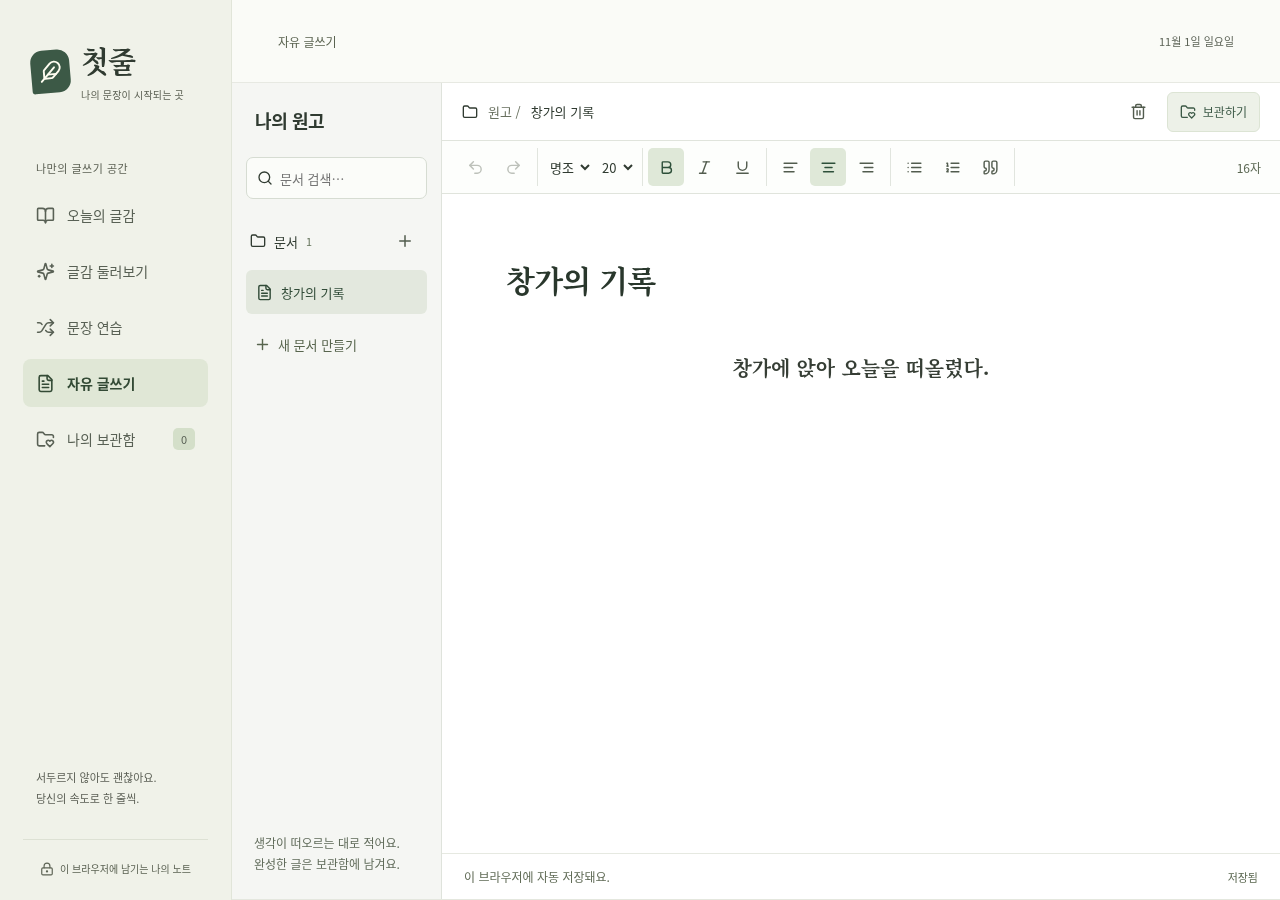
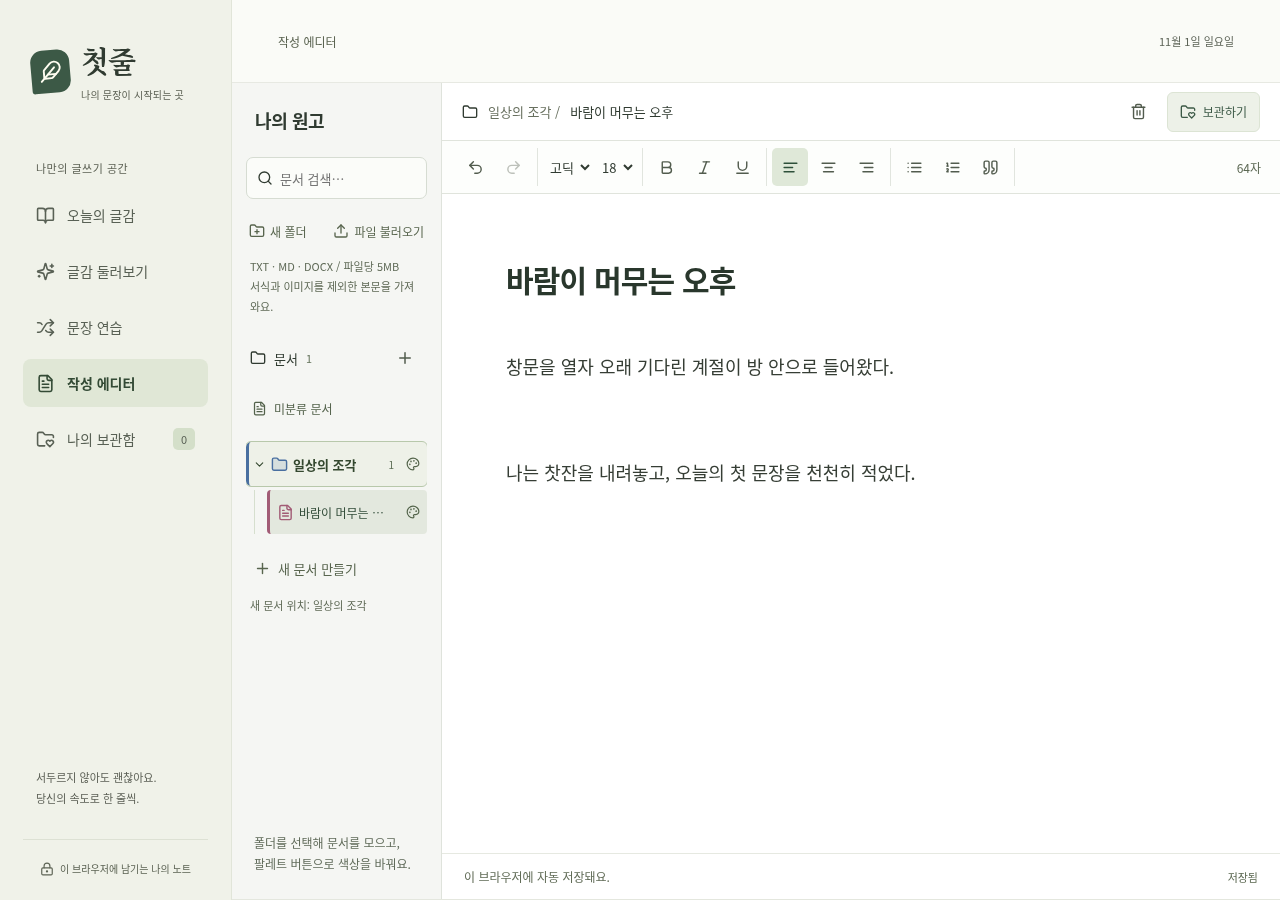
docs: explain Firstline motivation, evolution and development workflow

diff --git a/PRD.md b/PRD.md
@@ -1,6 +1,6 @@
 # 첫줄 — 초보자를 위한 글쓰기 플랫폼 PRD
 
-> 버전: 1.1 · 작성일: 2026-11-01 · 범위: 첫 버전 및 사용자 요청 확장
+> 버전: 1.2 · 작성일: 2026-11-01 · 갱신일: 2026-11-02 · 범위: 첫 버전 및 사용자 요청 확장
 > ‘첫줄’은 가칭입니다. 사용자 확정 사항과 구현을 위한 제안을 구분했습니다.
 > 이 문서는 제품 요구 사항입니다. 2026-11-01 사용자의 첫 버전 제작 요청으로 구현했으며, 결과는 TodoList.md와 docs/VALIDATION.md에 기록합니다.
 
@@ -53,7 +53,7 @@
 
 ### 4-1. 글감 제공
 
-- 사용자는 오늘의 글감 1개와 짧은 시작 질문을 볼 수 있다.
+- 사용자는 오늘의 글감 1개와 짧은 시작 질문을 볼 수 있다. 후속 화면 요청(#11, #12)에 따라 홈에는 고정된 제목·설명을 표시하고, 실제 글감·질문은 작성 화면에서 보여준다.
 - 다른 글감을 선택할 수 있다. 사용자별 추천이나 외부 검색은 사용하지 않는다.
 - 제안 콘텐츠: 자체 작성 글감 최소 20개, ‘관찰·기억·상상·감정’ 분류.
 - 오늘의 글감은 기기의 현지 날짜를 기준으로 같은 날 같은 항목을 표시한다.
@@ -87,7 +87,7 @@
 - 상세 화면에서 ‘처음 쓴 글’과 ‘다듬은 글’을 구분해 볼 수 있다.
 - 모바일은 세로 배치, 넓은 화면은 나란히 배치를 제안한다.
 - 미션과 선택 입력인 ‘바꾼 이유’ 한 줄을 함께 저장한다.
-- 저장한 글은 다시 읽기 전용으로 제공한다. 재퇴고·다중 버전 관리는 이번 범위에서 제외한다.
+- 저장한 글은 다시 읽을 수 있고, 후속 요청(#12)에 따라 보관함에서 제목·본문·수정본·메모를 수정할 수 있다. 다중 버전 관리는 제외한다.
 - 글별 삭제는 확인 후 실행한다. 취소 시 그대로 남는다.
 - 빈 보관함에는 첫 글쓰기로 이동하는 안내를 표시한다.
 
@@ -108,8 +108,8 @@
 3. AI 글 생성·자동 첨삭·문장력 점수·순위.
 4. 세계관·캐릭터·플롯 설정 도구. 사용자 요청으로 추가한 문서 목록과 자유 글쓰기 편집기는 #11에 정의한다.
 5. 결제·구독·광고·푸시 알림·연속 출석 보상.
-6. 출판·PDF 내보내기·데이터 백업 및 가져오기.
-7. 기존 보관 글의 재편집·여러 차례의 수정 이력·정교한 단어별 차이 표시.
+6. 출판·PDF 내보내기·데이터 백업 복원. 문서 파일의 본문 불러오기는 #12에 정의한다.
+7. 여러 차례의 수정 이력·정교한 단어별 차이 표시. 보관 글의 재편집은 #12에 정의한다.
 
 ## 6. 모양과 분위기 (디자인)
 
@@ -209,18 +209,29 @@
 - 자체 단어 목록에서 무작위로 한 단어를 제시한다. 교체 시 같은 단어가 연속해서 나오지 않는다.
 - 한 문장부터 자유롭게 쓸 수 있으며 공백만 보관하는 것은 막는다. 채점이나 단어 포함 강제는 하지 않는다.
 - 작성 중 단어 교체는 확인 후 문장을 유지한 채 단어만 바꾼다.
-- 단어·문장을 자동 저장·복원한다. 보관 성공 후에만 초안을 비우며, 단어와 문장을 ‘나의 보관함’에 읽기 전용으로 저장한다.
+- 단어·문장을 자동 저장·복원한다. 보관 성공 후에만 초안을 비우며, 단어와 문장을 ‘나의 보관함’에 저장한다. 이후 수정은 #12를 따른다.
 
-### 자유 글쓰기 편집기
+### 작성 에디터 (이전 이름: 자유 글쓰기)
 
 - 첨부한 글쓰기 앱 화면을 참고해 문서 목록, 제목, 서식 도구, 넓은 본문을 제공한다.
 - 문서 추가·검색·전환·삭제 확인과 제목·본문 자동 저장·복원을 지원한다.
 - 글꼴·글자 크기, 굵게·기울임·밑줄, 정렬, 목록·인용문, 실행 취소·다시 실행, 글자 수를 제공한다. 저장된 원고는 다시 편집할 수 있다.
-- 완성한 원고의 보관은 확인 후 실행하며, 본문을 읽기 전용으로 보관하고 작성 중 목록에서 제거한다. 보관 시 서식 제외 여부를 미리 안내한다.
+- 완성한 원고의 보관은 확인 후 실행하며, 본문을 보관하고 작성 중 목록에서 제거한다. 보관 시 서식 제외 여부를 미리 안내하며, 보관함에서도 본문을 수정할 수 있다.
 - 문서 목록은 1100px 이하에서 접고 버튼으로 여닫는다. 700px 이하에서는 도구가 줄바꿈되어 가로 넘침 없이 터치 조작할 수 있다.
 
 ### 저장과 범위
 
 - 기존 `firstline.notebook.v1` 데이터를 그대로 유지한다. 새 기능은 별도 `firstline.studio.v1` 저장 구조를 사용하고 보관 목록만 합쳐 표시한다.
 - 새 저장 구조에도 저장 실패·다른 탭 충돌·손상 데이터 보호를 적용한다. 사용자 입력을 외부로 보내지 않는다.
-- 서버 저장, 동기화, AI 첨삭, 캐릭터·플롯 관리, 업로드·삽입 도구는 이번 요청에 추가하지 않는다.
+- 서버 저장, 동기화, AI 첨삭, 캐릭터·플롯 관리, 이미지 삽입 도구는 추가하지 않는다. 로컬 파일 불러오기는 #12를 따른다.
+
+## 12. 폴더·파일·보관함 편집 (2026-11-01 후속 요청)
+
+- 홈 글감 카드의 제목은 ‘작성의 순간’으로 표시한다. ‘다른 글감’은 글감 목록을 열어 선택하게 한다. 기존 ‘자유 글쓰기’ 메뉴와 화면 이름은 ‘작성 에디터’로 바꾼다.
+- 작성 에디터에 폴더 생성, 이름 변경, 문서 이동, 폴더 접기·펼치기를 제공한다. 폴더 삭제 시 내부 문서는 미분류로 이동하며 지우지 않는다.
+- 폴더와 문서마다 6가지 표시 색상 중 하나를 지정할 수 있다. 색상과 함께 서로 다른 아이콘·들여쓰기로 구분한다. 소속 폴더와 색상은 새로고침 후 복원한다.
+- TXT·Markdown·Word(DOCX) 파일을 선택해 새 문서로 불러온다. 파일은 브라우저에서 읽으며 서버로 전송하지 않는다. 원래 파일은 변경하지 않는다.
+- 불러오기는 파일당 5MB, 본문 20만 자까지 지원한다. 서식·이미지는 제외하고 텍스트와 문단을 가져오며 Markdown 구문은 본문 그대로 둔다. 지원하지 않거나 읽을 수 없는 파일은 안내하고 기존 문서를 유지한다.
+- 비동기 파일 읽기 중 편집한 기존 문서도 유지한다. 저장 실패 시 읽은 문서를 재시도할 수 있고, 성공하기 전에는 완료로 표시하지 않는다.
+- 보관함의 글을 열고 ‘글 수정’으로 제목과 본문을 수정한다. 퇴고 글은 원문·수정본·메모를 함께 수정할 수 있다. 저장하면 같은 ID에 반영하고 수정 시각을 기록하며, 원문·수정본의 실제 내용으로 변화 상태를 다시 계산한다.
+- 편집 취소는 저장된 글을 바꾸지 않는다. 저장 실패는 입력을 유지하고 재시도를 허용한다. 기존 원고·보관 데이터는 삭제하지 않고 추가 필드의 기본값을 적용해 읽는다.

diff --git a/TodoList.md b/TodoList.md
@@ -1,7 +1,7 @@
 # 첫줄 — TodoList
 
-> 기준 문서: [PRD.md](PRD.md) · 버전: 1.1 · 작성일: 2026-11-01
-> 현재 상태: 첫 버전과 사용자 요청 확장 구현·검증 완료. 단위 테스트 12개·브라우저 테스트 48개·프로덕션 빌드 통과. Sites 기록은 docs/SITES.md를 참고하며, 실제 사용자 검증은 별도입니다.
+> 기준 문서: [PRD.md](PRD.md) · 버전: 1.2 · 작성일: 2026-11-01 · 갱신일: 2026-11-02
+> 현재 상태: 첫 버전과 사용자 요청 확장 구현·검증 완료. 단위 테스트 16개·브라우저 테스트 66개(전체 실행과 영향 범위 재검증 합산)·프로덕션 빌드 통과. Sites 기록은 docs/SITES.md를 참고하며, 실제 사용자 검증은 별도입니다.
 > 각 항목은 PRD 근거를 포함합니다. 열린 질문은 PRD #9의 제안 기본값으로 계획했으며, 완료 날짜는 확정하지 않았습니다.
 > 구현 승인 후 순서대로 진행하고 완료 번호·확인 결과·남은 문제를 보고합니다.
 
@@ -62,7 +62,7 @@
 - [x] **4-4** 글 ID 기준으로 중복 보관을 방지한다. (PRD #4-5)
 - [x] **4-5** 보관 완료된 진행 중 초안을 비운다. (PRD #4-5)
 - [x] **4-6** 보관함 목록을 실제 데이터로 연결한다. (PRD #4-4)
-- [x] **4-7** 상세의 읽기 전용 전후 비교를 연결한다. (PRD #4-4)
+- [x] **4-7** 상세의 전후 비교를 연결한다. 초기 읽기 전용 제한은 후속 8-5에서 수정 기능으로 확장했다. (PRD #4-4, #12)
 - [x] **4-8** 보관함 빈 상태를 구현한다. (PRD #4-4)
 - [x] **4-9** 글별 삭제 확인과 취소를 구현한다. (PRD #4-4)
 - [x] **4-10** 저장 실패 시 입력 유지와 재시도 안내를 구현한다. (PRD #4-5)
@@ -108,15 +108,28 @@
 - [x] **7-6** 문장과 원고의 보관 실패 시 입력 유지 및 재시도, 손상 데이터 보호를 검증한다.
 - [x] **7-7** 360px·1280px 기능·접근성 검사와 841px 원고 목록 열기·닫기 및 화면을 확인한다.
 
+## 폴더·파일·보관함 편집과 문서 갱신 (PRD #12)
+
+- [x] **8-1** 홈 카드 제목을 ‘작성의 순간’으로, ‘자유 글쓰기’를 ‘작성 에디터’로 변경한다. 다른 글감 버튼은 글감 목록으로 연결한다.
+- [x] **8-2** 폴더 생성·이름 변경·접기·펼치기와 문서 이동을 구현한다. 폴더 삭제 시 문서는 미분류로 이동한다.
+- [x] **8-3** 폴더와 문서에 6가지 표시 색상을 제공하고 아이콘·들여쓰기로도 구분한다. 기존 데이터에 기본값을 적용하고 소속·색상을 복원한다.
+- [x] **8-4** TXT·Markdown·DOCX 본문 불러오기, 형식·크기·빈 본문 안내, 저장 실패 재시도를 제공한다. 파일을 읽는 동안의 기존 문서 편집을 보존한다.
+- [x] **8-5** 보관한 글감 글·연습 문장·원고의 제목·본문을 같은 ID로 수정한다. 퇴고 글의 수정본·메모, 수정 시각과 상태 재계산을 연결한다.
+- [x] **8-6** 보관 글 편집 취소·실패 시 데이터와 입력 보존, 이전 저장 형식 호환, 중복 방지를 검증한다.
+- [x] **8-7** 360px·1280px에서 폴더·파일·보관함 편집 동작, 새 창과 설정의 접근성 및 화면을 확인한다.
+- [x] **8-8** README에 소개·제작 동기, 초기 PRD·TodoList 대비 변경점, SKILL.md의 내용·이유·적용 사례, 회고와 결론을 추가한다. 관련 문서의 제외 범위와 검증 기록을 함께 갱신한다.
+
+**확인 방법:** 폴더 생성→색상 선택→문서 이동→새로고침→폴더 삭제 후 문서 보존을 확인한다. 세 파일 형식과 실패 재시도를 검사한다. 세 종류의 보관 글을 수정하고 취소·저장 실패·새로고침 후 같은 ID와 내용을 대조한다. 초기 문서와 현재 코드에 근거해 README의 비교 내용을 점검한다.
+
 ## 하지 않기로 한 것
 
 - **제외-1** 회원가입·로그인·서버 저장·기기 간 동기화. (PRD #5-1)
 - **제외-2** 공개 게시·팔로우·댓글·작품 교환. (PRD #5-2)
 - **제외-3** AI 생성·자동 첨삭·문장력 점수·순위. (PRD #5-3)
-- **제외-4** 세계관·캐릭터·플롯 관리. 자유 글쓰기와 문서 관리는 사용자 추가 요청(PRD #11)에 포함한다.
+- **제외-4** 세계관·캐릭터·플롯 관리. 작성 에디터와 문서·폴더 관리는 사용자 추가 요청(PRD #11, #12)에 포함한다.
 - **제외-5** 결제·구독·광고·푸시·출석 보상. (PRD #5-5)
-- **제외-6** 출판·PDF 출력·백업·가져오기. (PRD #5-6)
-- **제외-7** 보관 글 재편집·다중 수정 이력·단어별 차이 표시. (PRD #5-7)
+- **제외-6** 출판·PDF 출력·백업 복원. TXT·Markdown·DOCX 본문 불러오기는 추가 요청(PRD #12)에 포함한다. (PRD #5-6)
+- **제외-7** 다중 수정 이력·단어별 차이 표시. 보관 글 재편집은 추가 요청(PRD #12)에 포함한다. (PRD #5-7)
 
 ## 추가 제안
 

diff --git a/docs/VALIDATION.md b/docs/VALIDATION.md
@@ -1,4 +1,22 @@
-# 첫줄 첫 버전 검증 기록
+# 첫줄 검증 기록
+
+## v1.2 · 폴더·파일·보관함 편집
+
+기능 검사: 2026-11-01. 문서·화면 검토 갱신: 2026-11-02 (Asia/Seoul). 프로덕션 빌드를 로컬 preview 서버에서 제공해 검사했다.
+
+- 단위 테스트 **16개 통과**: 기존 12개와 이전 데이터 호환·폴더 삭제·텍스트 가져오기·보관 글 수정 시각 검사 4개.
+- Chromium 브라우저 검사 **66개 검증 완료**: 33개 시나리오 × 1280×900 / 360×800. 첫 전체 실행은 63개 통과, 3개 실패였다. 변경된 기능과 맞지 않던 ‘읽기 전용’ 기대값 2개와 모바일 지연 로딩 대기 1개를 수정한 뒤, 영향 범위 20개(새 기능 18개와 기존 보관함 2개)를 재실행해 통과했다. 마지막 실행 기록은 `passed`, 실패 목록은 비어 있다.
+- TypeScript 검사와 Vite 프로덕션 빌드 성공. DOCX 추출 모듈은 파일을 불러올 때 로딩한다.
+- 홈 카드 ‘작성의 순간’, 메뉴·화면 ‘작성 에디터’ 표시와 ‘다른 글감’의 24개 목록 이동 확인.
+- 폴더 생성·문서 이동·색상·소속 복원, 폴더 안 새 문서 생성, 폴더 삭제 후 문서 2개 보존 확인.
+- TXT·Markdown·실제 DOCX 구조의 테스트 파일에서 한국어·문단 가져오기 확인. HTML 문자열은 문자로 표시하고 실행하지 않음. 미지원 형식·빈 파일 안내, 파일 읽기 중 편집 보존, 저장 실패 후 재시도 확인.
+- 글감 글·연습 문장·원고를 보관함에서 수정하고 새로고침 후 제목·본문·같은 ID 유지 확인. 퇴고 글의 수정본·메모·변화 상태 재계산, 취소·실패 시 기존 내용과 편집 입력 보존 확인.
+- 폴더 목록·설정 창·보관 글 편집 창의 Axe WCAG 2 A/AA·2.1 AA 자동 검사 위반 0건. 모바일 가로 넘침 없음.
+- 새 화면 캡처: [폴더·문서](images/folders-desktop.png), [모바일 폴더 목록](images/folders-mobile.png), [보관 글 편집](images/archive-edit-desktop.png), [모바일 편집 창](images/archive-edit-mobile.png). README의 소개·변경 비교·SKILL 설명·회고를 초기 문서와 현재 코드에 대조했다.
+
+자동 검사는 실제 사용자 조사나 모든 브라우저의 접근성 보장을 뜻하지 않는다. 운영 주소의 인증 후 조작, 실제 모바일 한글 키보드, Safari/Firefox, PDF·HWP 불러오기는 검증 범위에 포함하지 않았다.
+
+---
 
 ## v1.1 · 주석 수정과 글쓰기 확장
 
@@ -71,4 +89,4 @@
 - **Sites 연동:** 후속 요청으로 Sites를 연결했다. 프로덕션 빌드 대상 재검증과 배포 설정은 [Sites 기록](SITES.md)을 참고한다. 운영 주소의 인증 후 브라우저 조작은 별도 검증 범위다.
 - **사용성 검증:** PRD에서 제안한 초보자 3명 내외의 관찰·인터뷰 미수행. 문장력 향상 효과를 주장하지 않음.
 - **브라우저 범위:** Chromium 자동 검증 완료. 실제 iOS Safari·Firefox와 실제 모바일 기기 검증은 수행하지 않음.
-- 브라우저 저장만 사용하므로 데이터 삭제·도메인 변경·다른 기기 이동 시 글을 이어볼 수 없음. 백업·가져오기는 PRD 범위 밖.
+- 브라우저 저장만 사용하므로 데이터 삭제·도메인 변경·다른 기기 이동 시 글을 이어볼 수 없음. 초기에는 백업·가져오기가 모두 범위 밖이었으며, v1.2에서 문서 본문 불러오기만 추가했다. 전체 데이터 백업 복원은 여전히 제공하지 않는다.

diff --git a/docs/SITES.md b/docs/SITES.md
@@ -10,6 +10,10 @@
 
 첫 배포(버전 1)는 2026-11-01에 Sites의 `succeeded` 결과와 위 운영 URL을 확인했다. 소스 커밋은 `eb65bf189c10f97f598171331fe700950f6fba3a`다. 후속 화면·기능 확장의 검증은 [v1.1 기록](VALIDATION.md)을 참고한다.
 
+버전 2는 소스 커밋 `9418243c917e6a0007305bdea1f62ac1bc5f0ad3`로 게시에 성공했다. 배포 ID는 `appgdep_6ae745617bc88191bb019c1037294a8e`다. 주석에 따른 화면 정리, 문장 연습과 원고 편집기를 포함한다.
+
+현재 소스에는 폴더·색상·파일 불러오기, ‘작성 에디터’ 명칭, 보관함 편집과 README 확장을 추가했다. 검증 결과는 [v1.2 기록](VALIDATION.md)에 남긴다. 게시 여부는 Sites의 해당 배포 결과로 확인하며, 이 문서의 소스 변경 설명만으로 게시 성공을 뜻하지 않는다.
+
 ## 배포 전 재검증
 
 2026-11-01 (Asia/Seoul), Node.js 24.19.0 / npm 11.9.0 / Vite 6.4.5.
